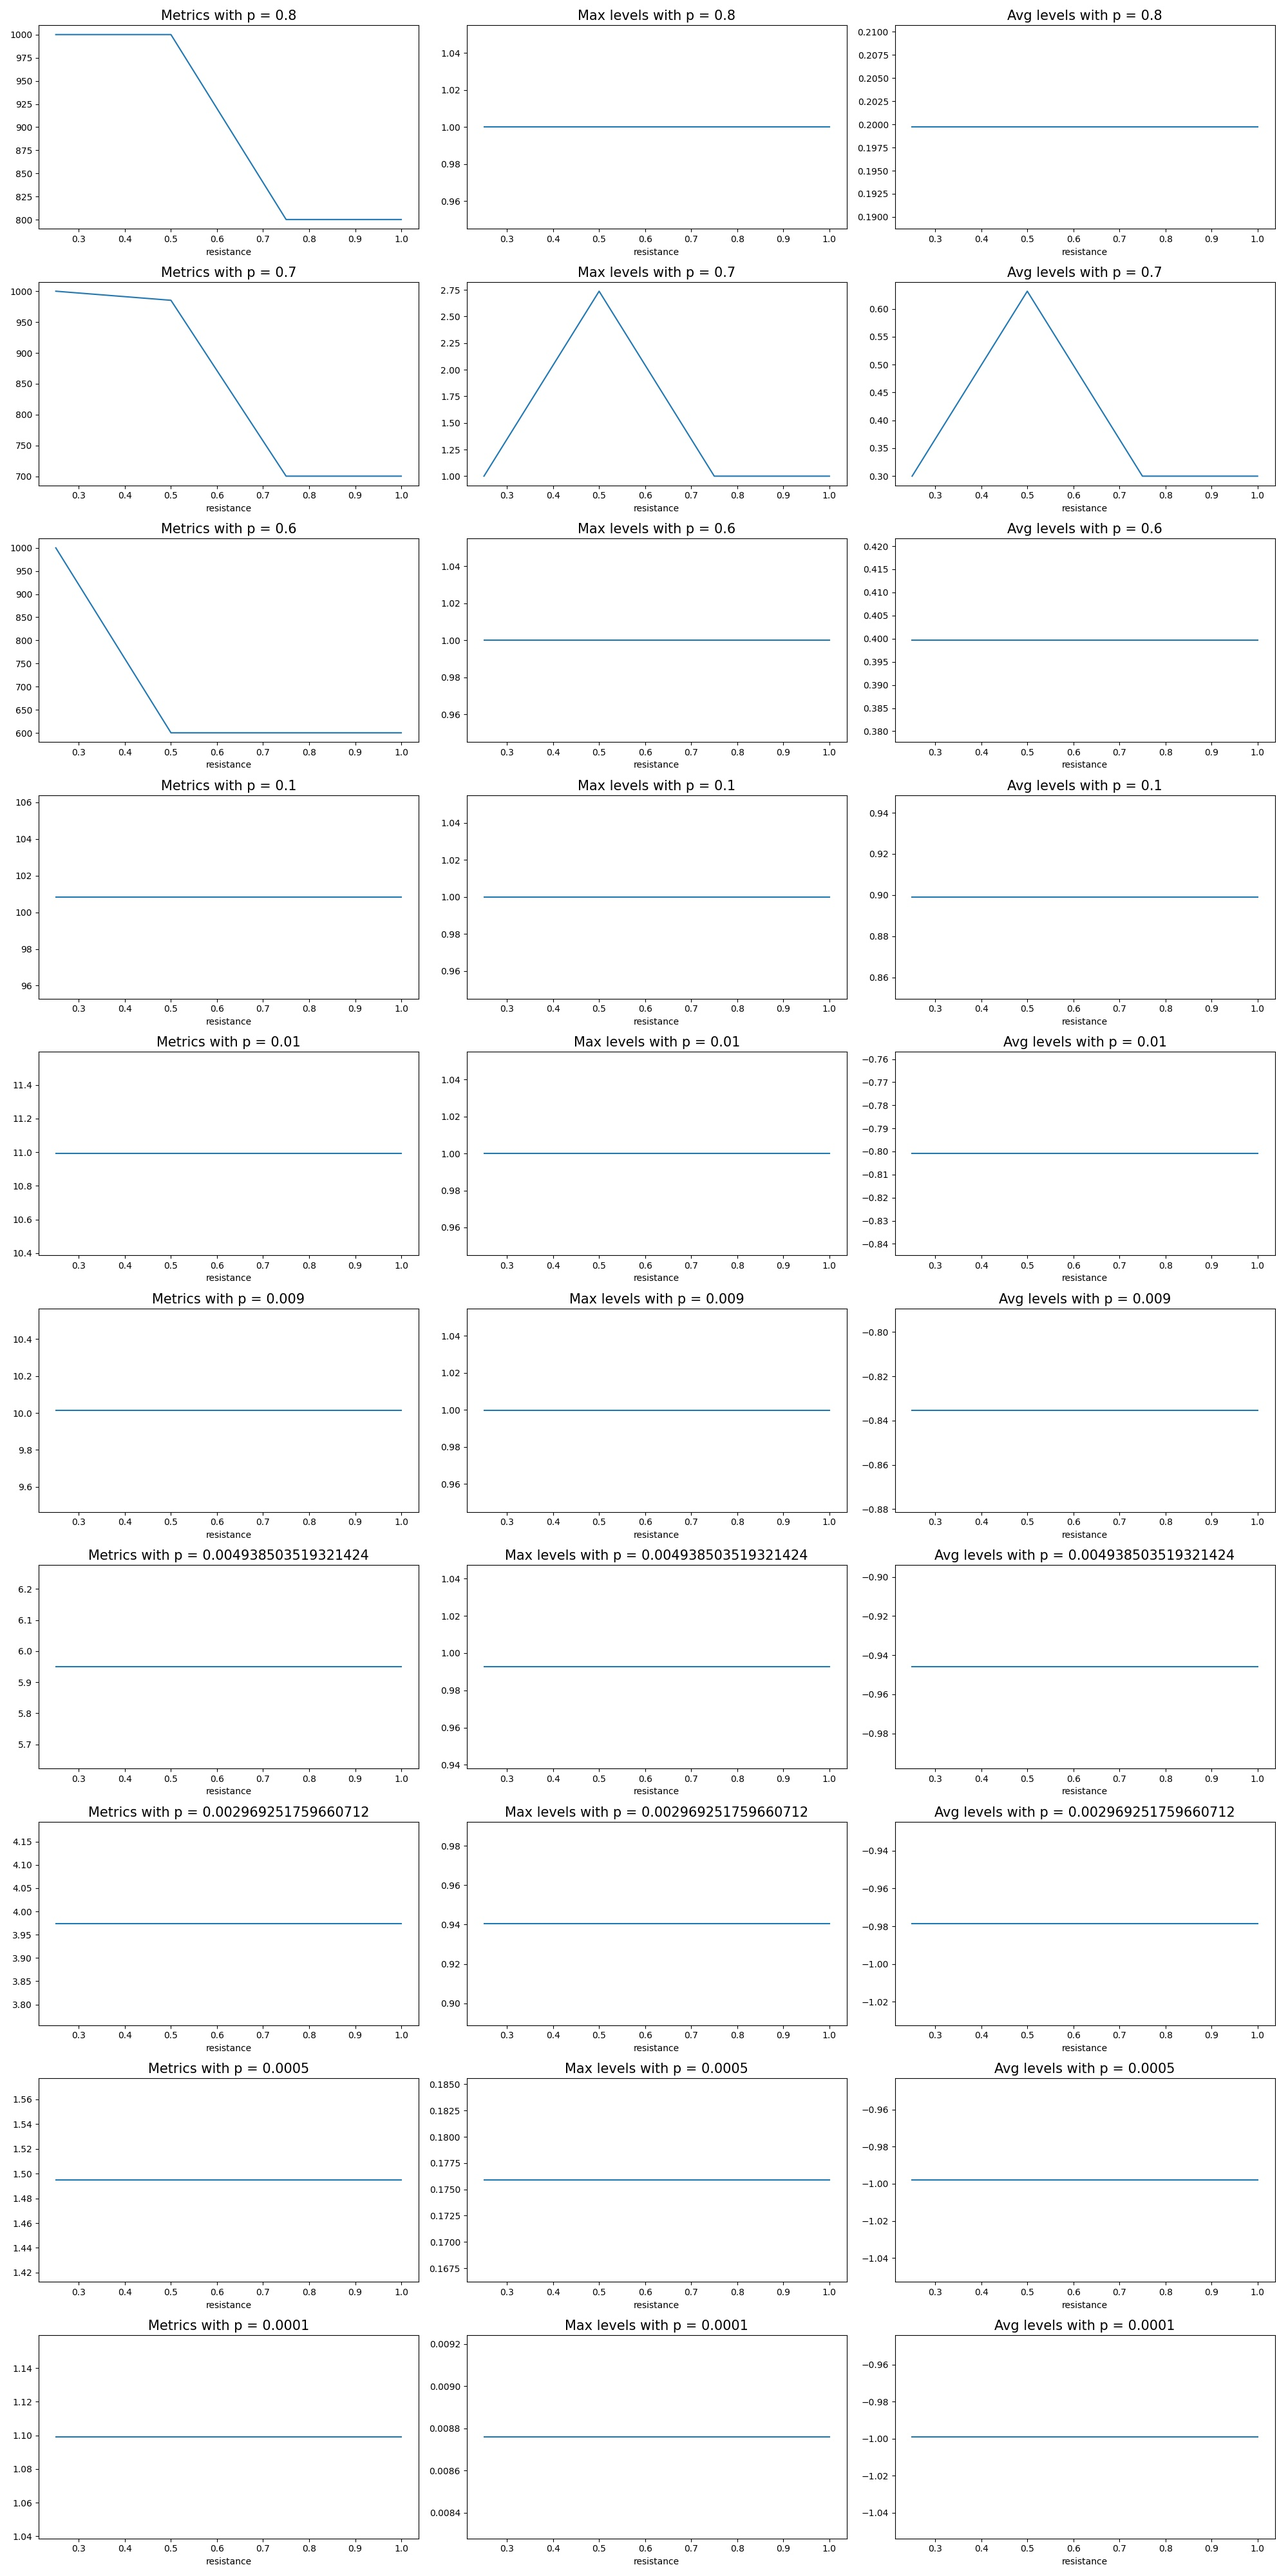
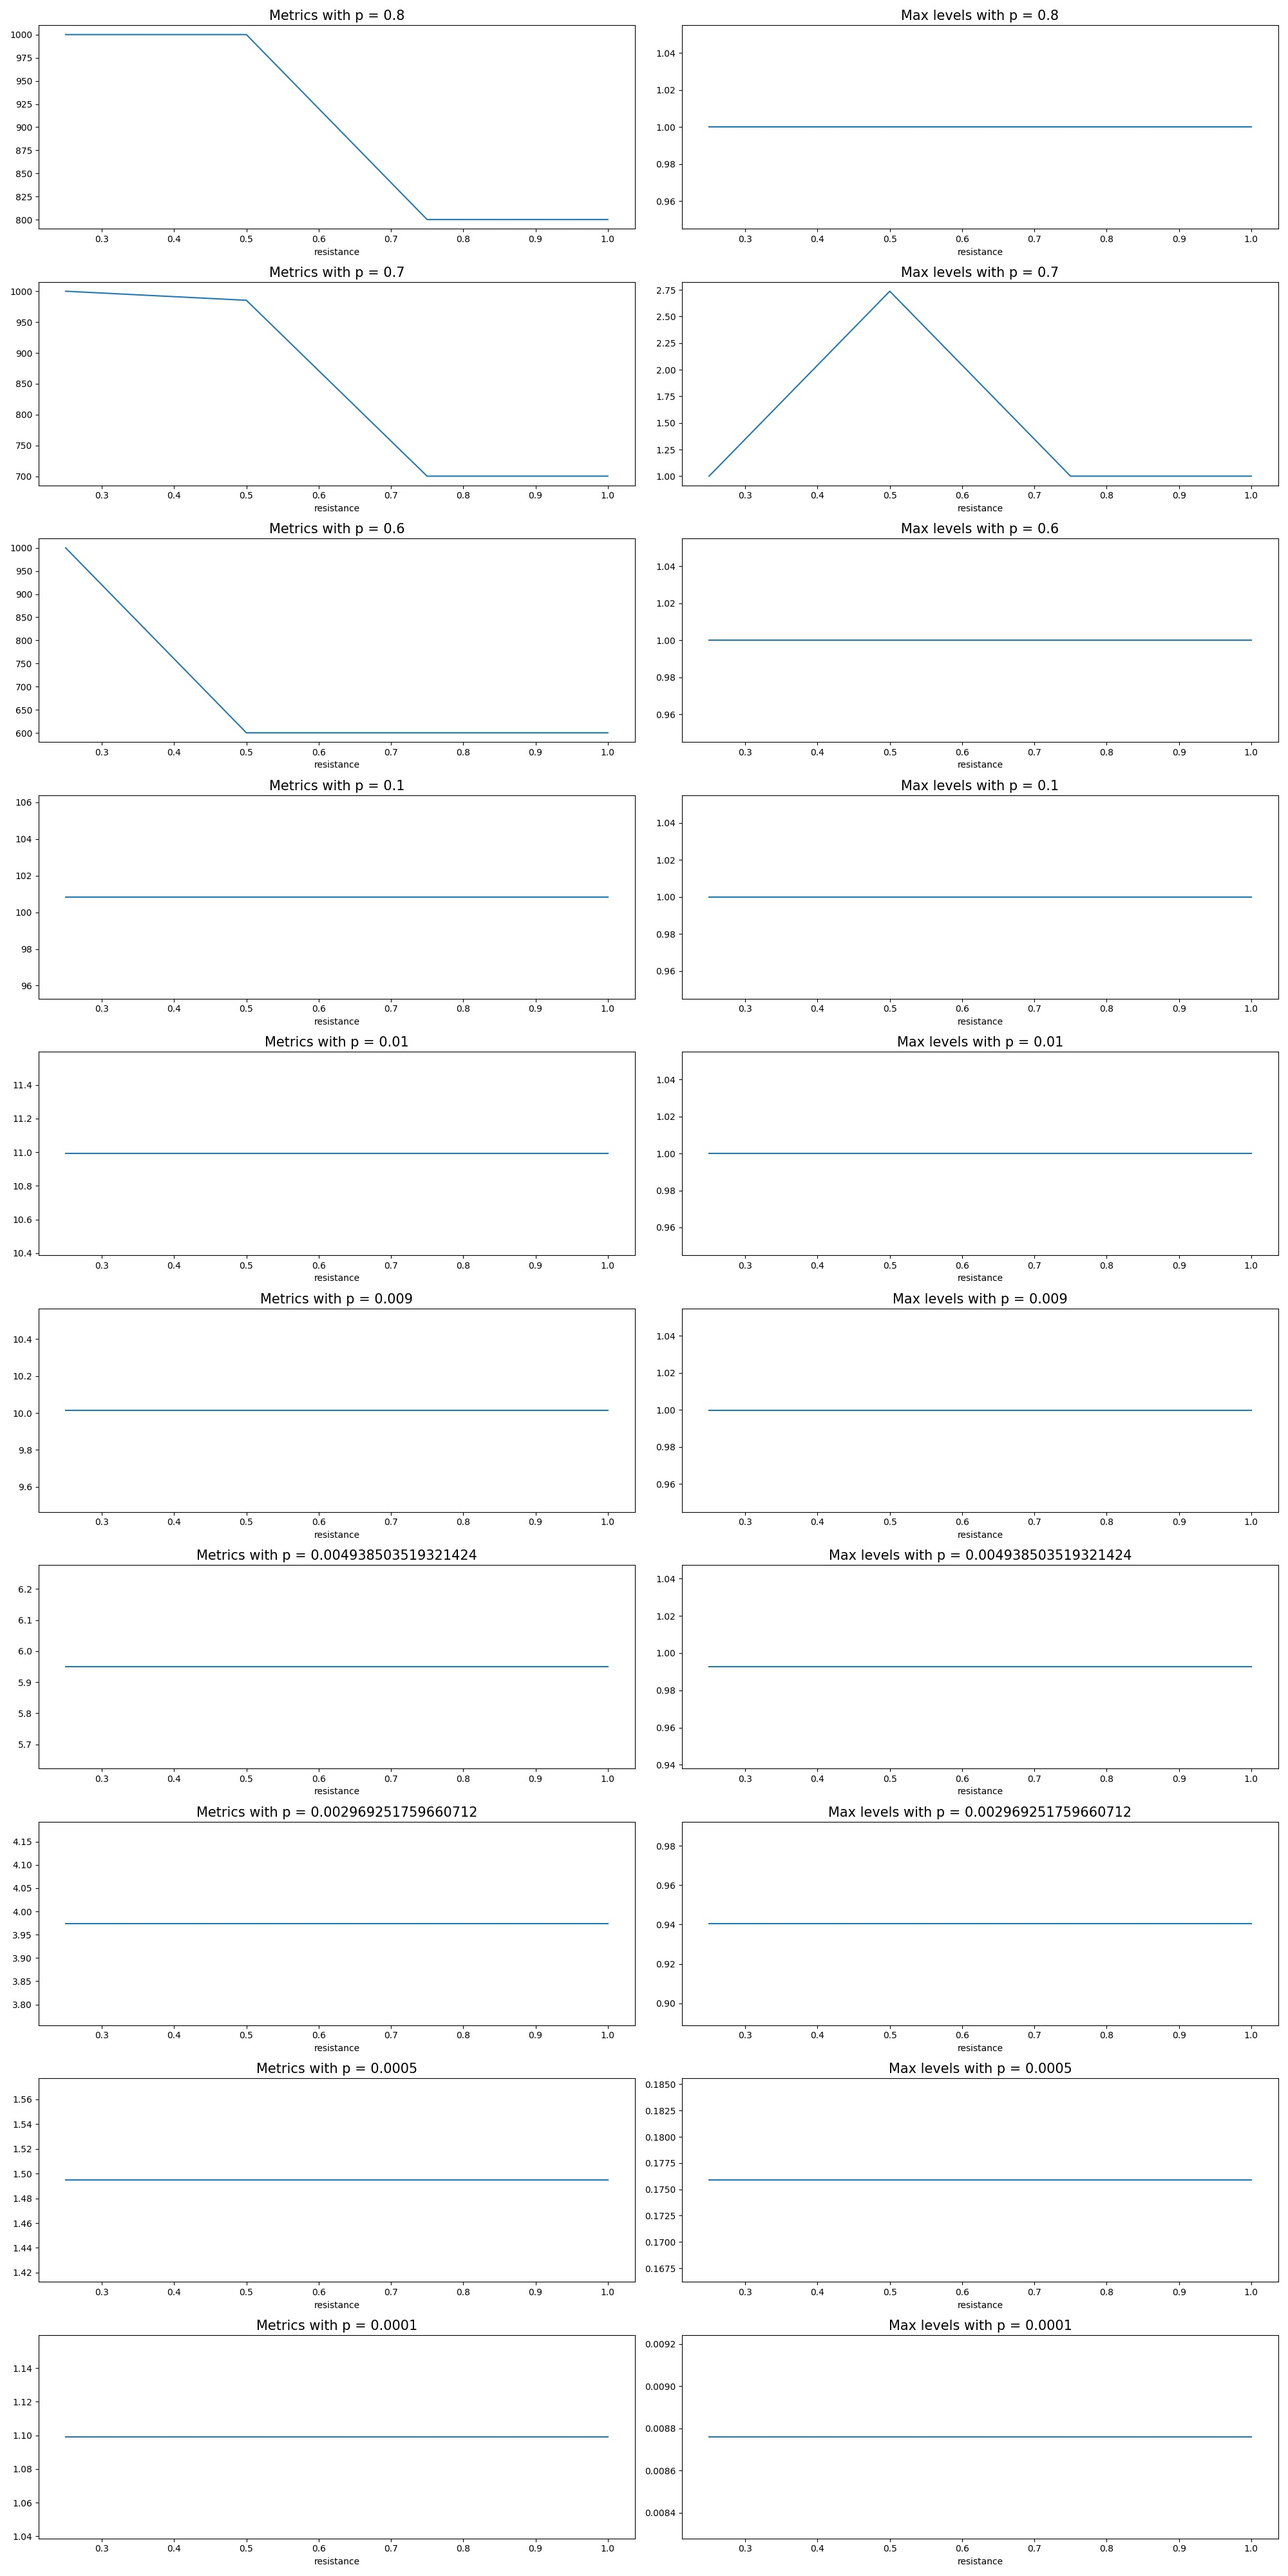
plot 1k 5k maxpred

diff --git a/plot.py b/plot.py
@@ -19,7 +19,7 @@ def plot_data_nodes(prob, directed, n, res, t):
         thr = 'maxpred'
     else : thr = 'pred'
 
-    fig, axs = plt.subplots(len(prob), 3, figsize = (20,40))
+    fig, axs = plt.subplots(len(prob), 2, figsize = (20,40))
     for i, p in enumerate(prob):
         # load data
         data = pd.read_csv('data/{}/data_node_{}_{}_{}.csv'.format(thr, lab, n, p))
@@ -28,8 +28,6 @@ def plot_data_nodes(prob, directed, n, res, t):
         _ = axs[i,0].boxplot([data.loc[data.resistance == k, 'metric'] for k in res], positions = [1,2,3,4], labels=res)
         axs[i,1].set_title('Max levels with p = {}'.format(p), fontsize=15)
         _ = axs[i,1].boxplot([data.loc[data.resistance == k, 'max_level'] for k in res], positions = [1,2,3,4], labels=res)
-        axs[i,2].set_title('Avg levels with p = {}'.format(p), fontsize=15)
-        _ = axs[i,2].boxplot([data.loc[data.resistance == k, 'avg_level'] for k in res], positions = [1,2,3,4], labels=res)
         # delete from memory
         del data
 
@@ -48,7 +46,7 @@ def plot_data_graphs(prob, directed, n, t):
         thr = 'maxpred'
     else: thr = 'pred'
 
-    fig, axs = plt.subplots(len(prob), 3, figsize = (20,40))
+    fig, axs = plt.subplots(len(prob), 2, figsize = (20,40))
     for i, p in enumerate(prob):
         # load data
         data = pd.read_csv('data/{}/data_graph_{}_{}_{}.csv'.format(thr, lab, n, p)).set_index('resistance')
@@ -57,8 +55,6 @@ def plot_data_graphs(prob, directed, n, t):
         data['metric'].transpose().plot(kind='line',ax=axs[i,0])
         axs[i,1].set_title('Max levels with p = {}'.format(p), fontsize=15)
         data['max_level'].transpose().plot(kind='line',ax=axs[i,1])
-        axs[i,2].set_title('Avg levels with p = {}'.format(p), fontsize=15)
-        data['avg_level'].transpose().plot(kind='line',ax=axs[i,2])
         # delete from memory
         del data
 
